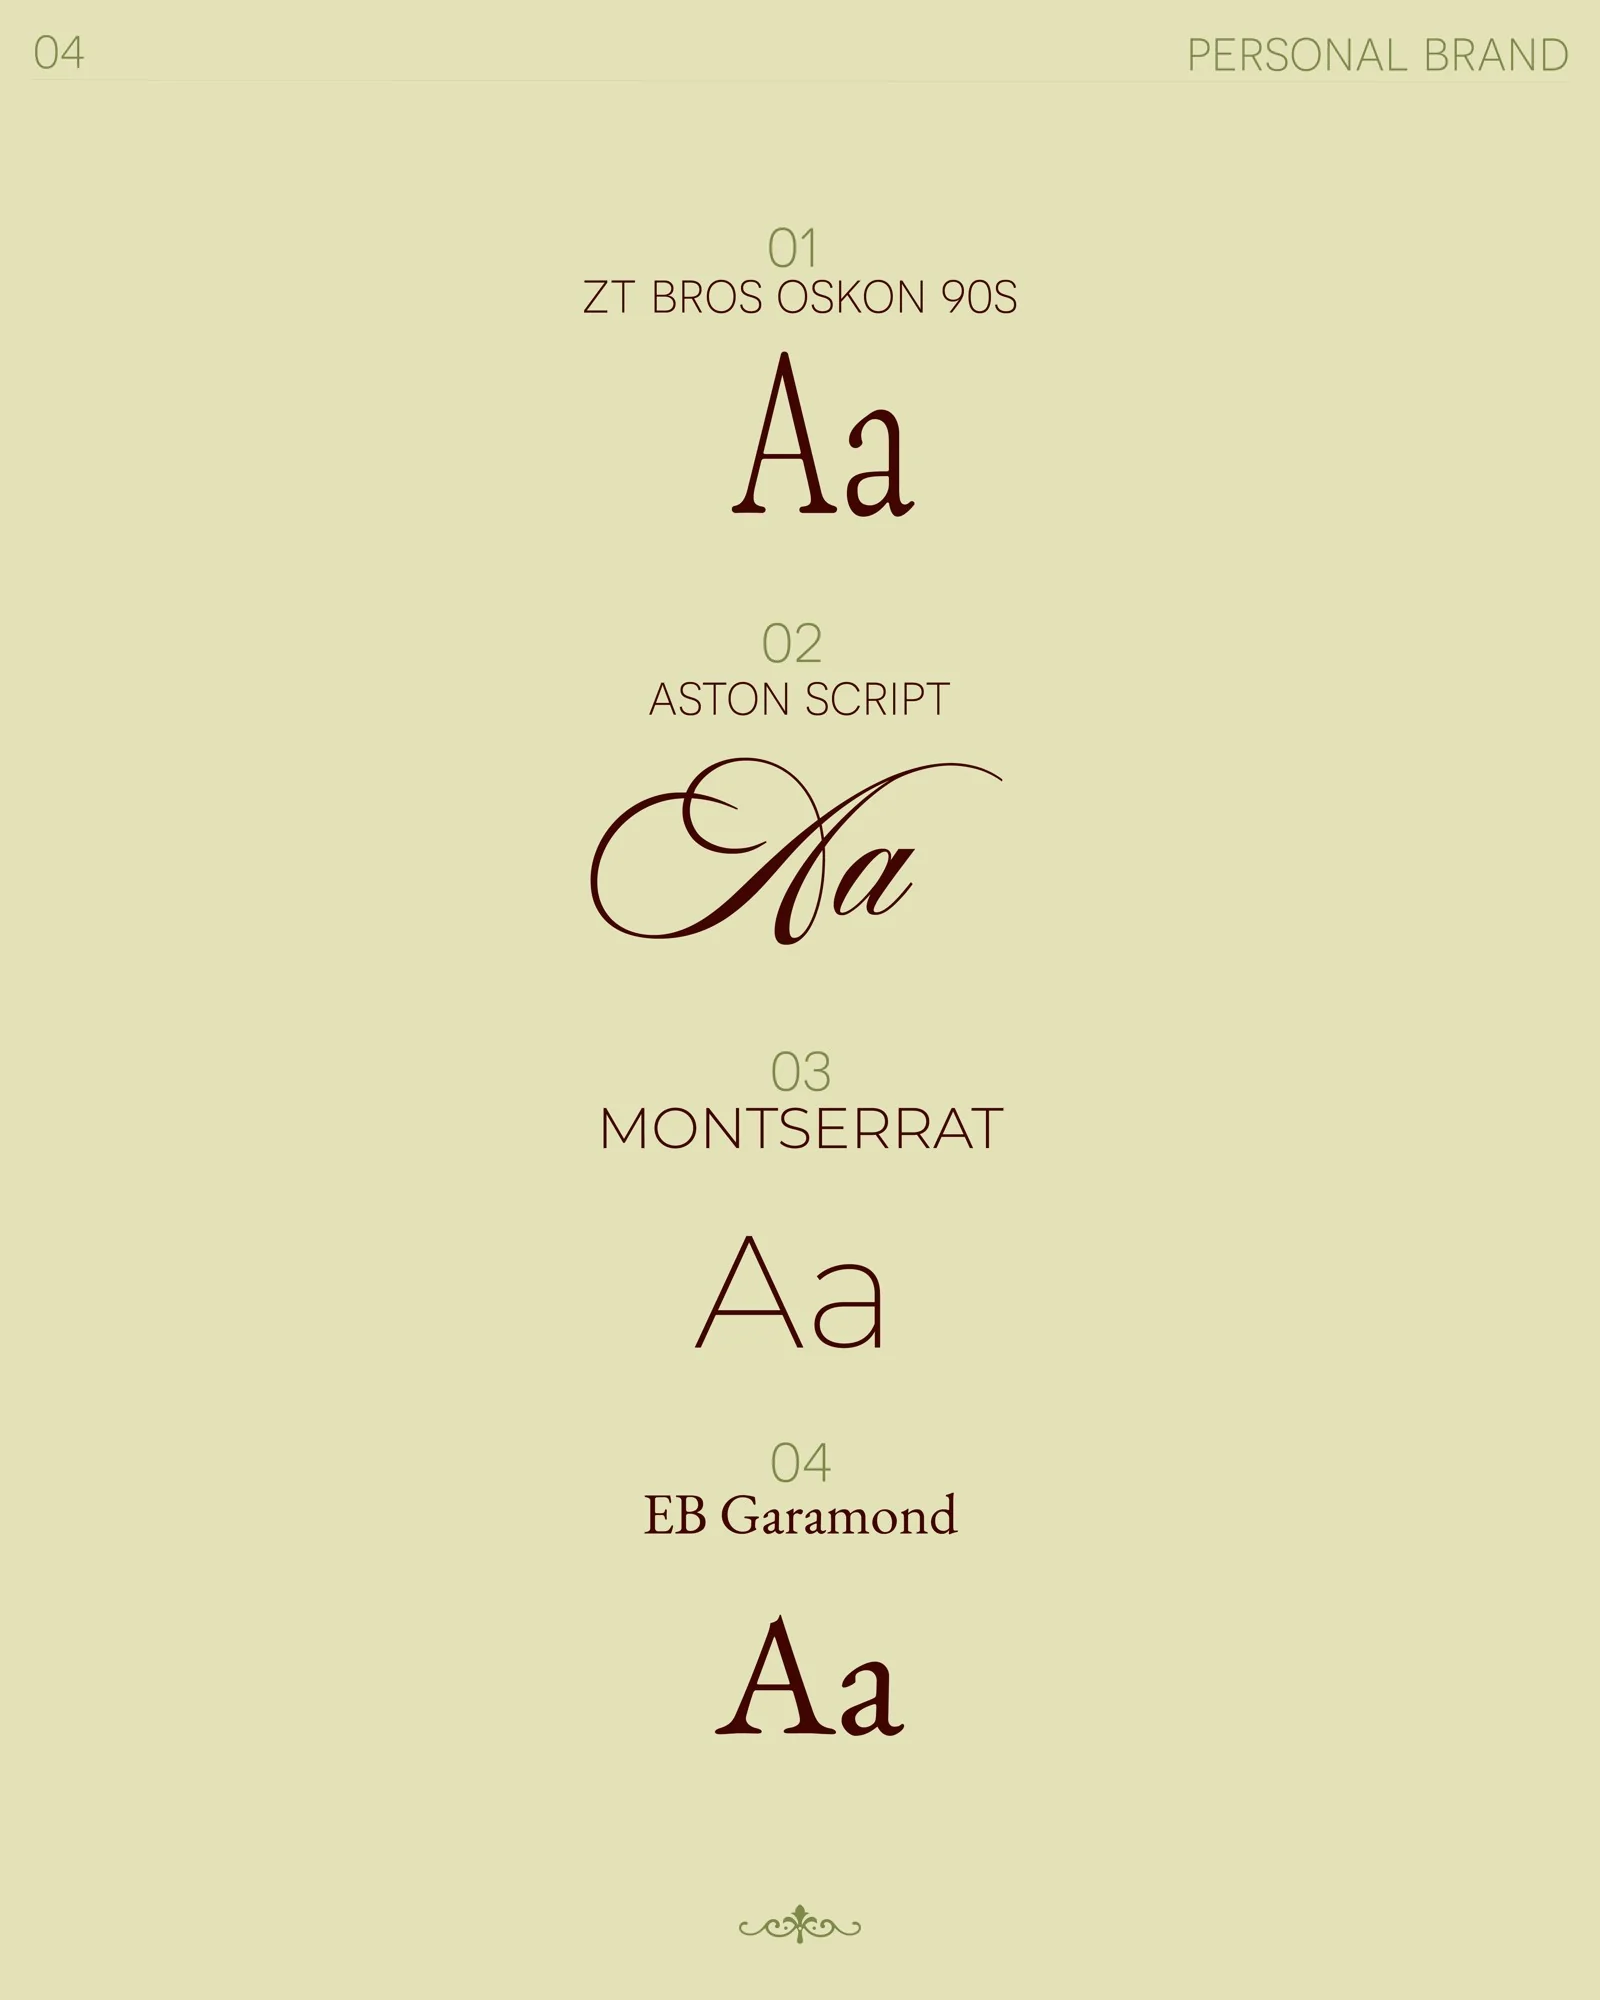
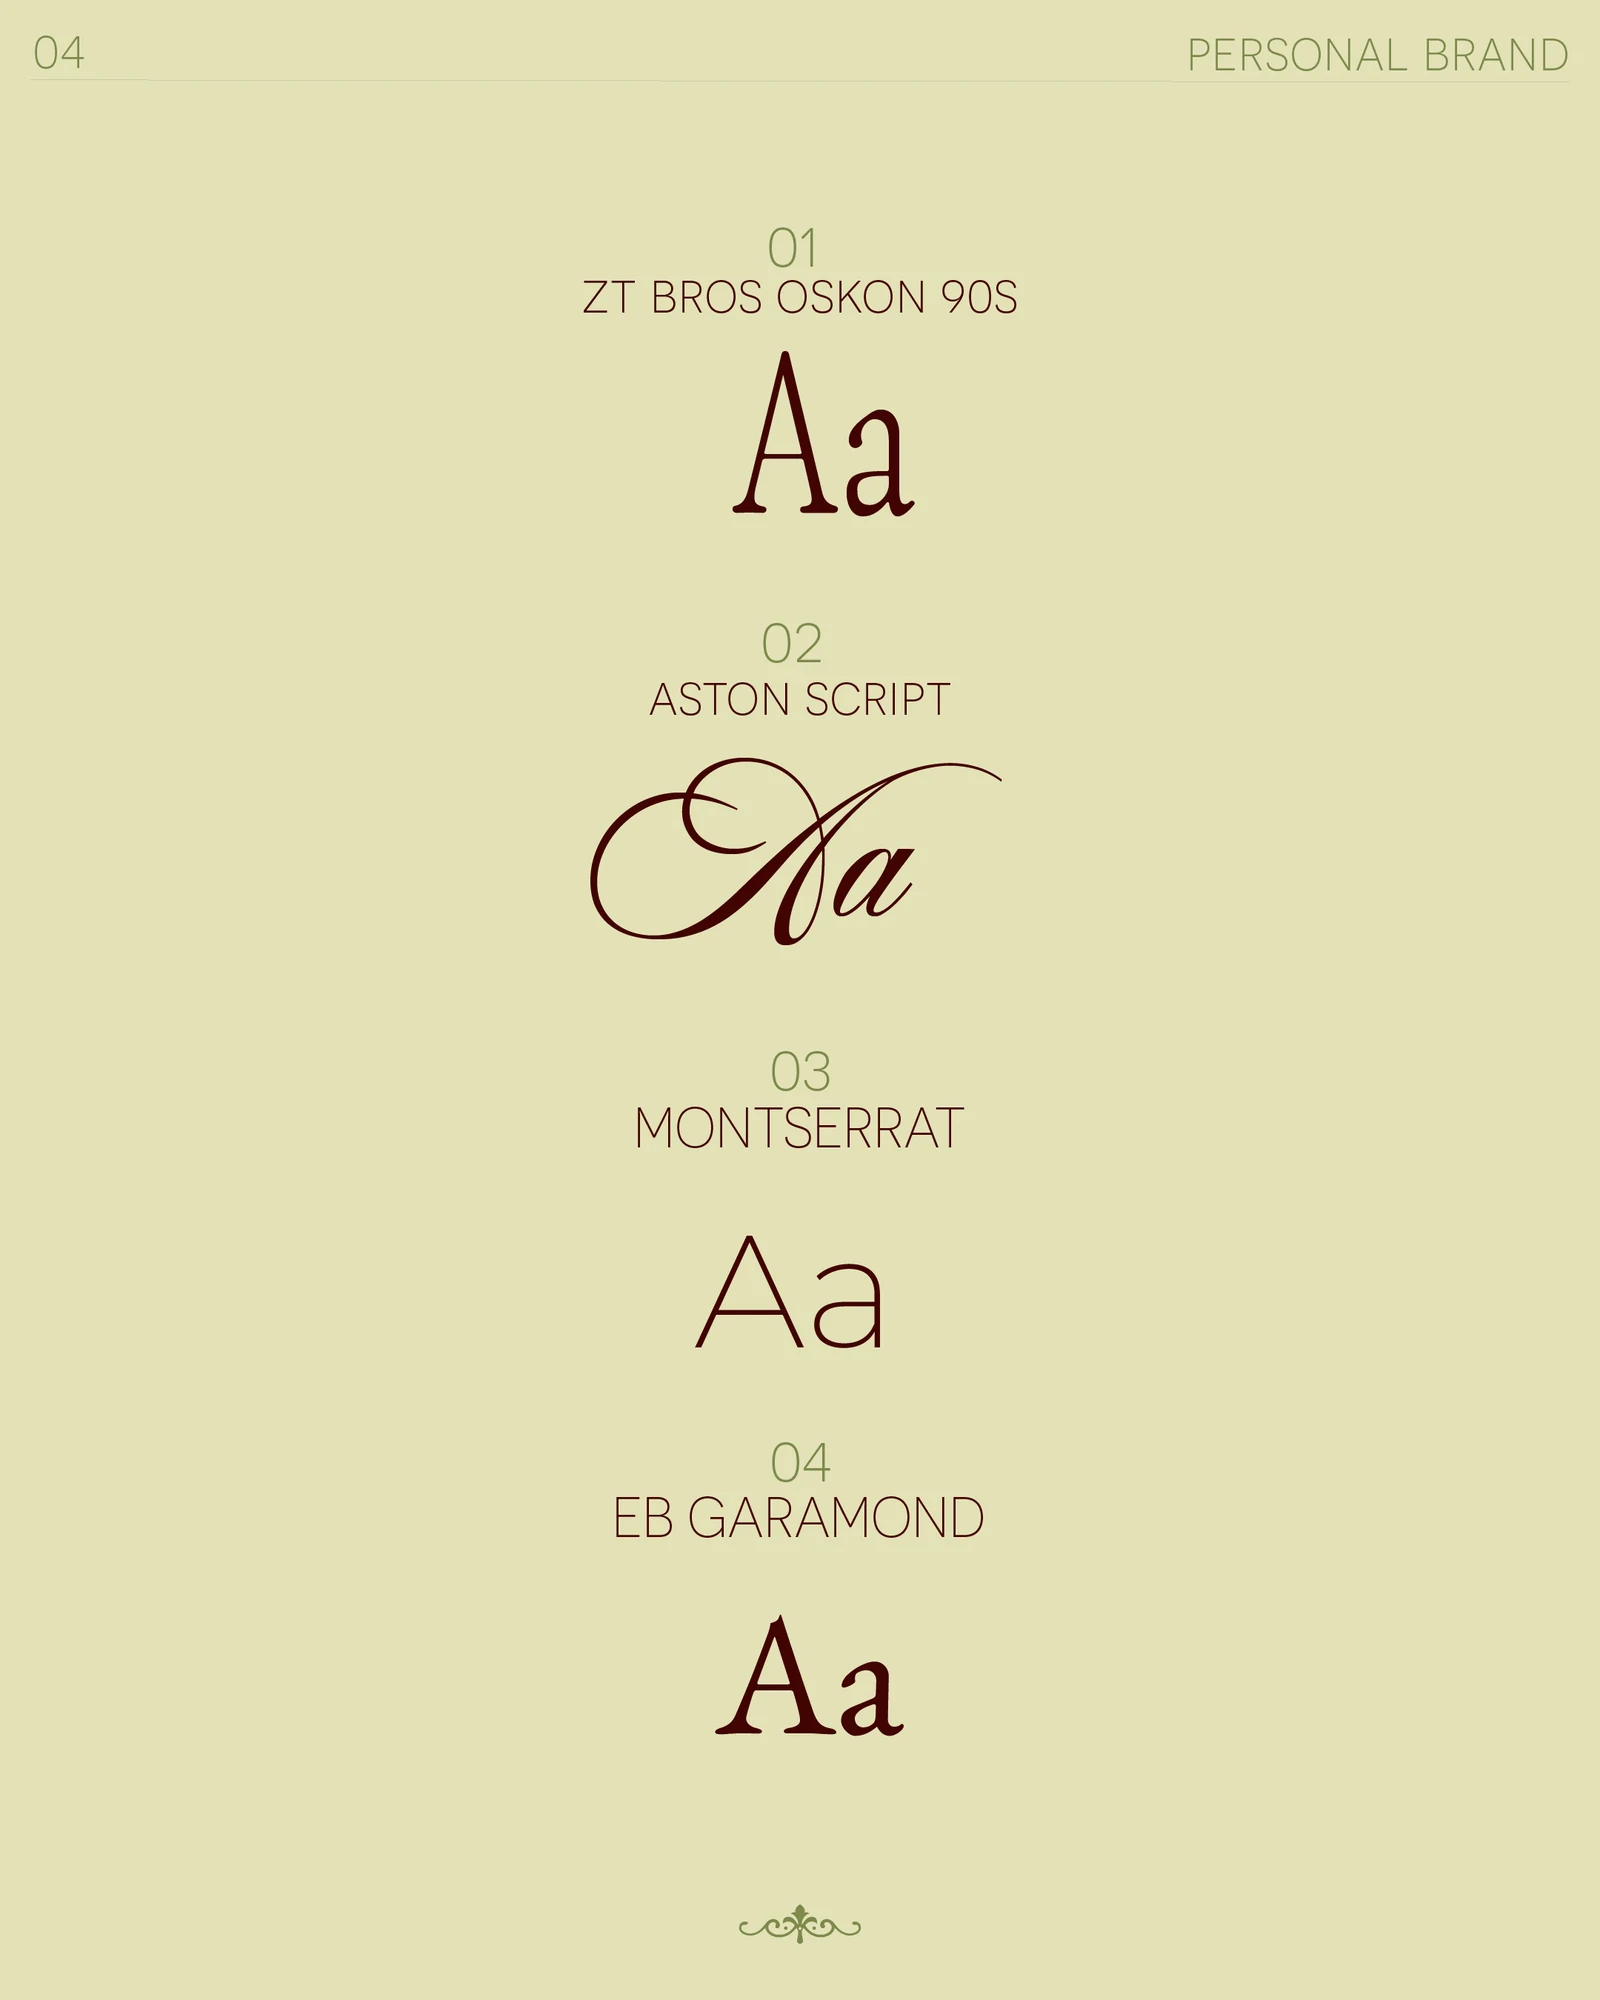
update

diff --git a/work/personal-brand.html b/work/personal-brand.html
@@ -29,9 +29,9 @@
     <section class="pj__row pj__row--pair pj__row--text"><div class="pj__intro"><div class="pj__lead"><p>For my degree thesis, I explored personal branding for artists: why it matters, and how a cohesive visual world can communicate an artist’s identity across every touchpoint. I then applied that research to my own practice, developing a personal brand for myself as an aspiring illustrator and designer.</p><p>I began by researching how independent illustrators build and engage an audience. From there, I defined my own position, identified the audience I wanted to reach, and considered how I could present myself online in a way that felt authentic to my practice. These insights shaped the visual identity, content strategy, and this website, creating a cohesive brand designed to work across every touchpoint.</p></div><div class="pj__meta"><div class="pj__meta-col pj__meta-col--name"><p>byluciatapia</p><p>2026 · Thesis</p></div><div class="pj__meta-col"><p class="pj__meta-k">Role</p><p class="pj__meta-v">Brand strategy<br>Art direction &amp; design</p></div><div class="pj__meta-col"><p class="pj__meta-k">Deliverables</p><p class="pj__meta-v">Visual identity<br>Content strategy<br>Website</p></div></div></div><figure class="pj__frame pj__frame--cover cut " data-cut data-interval="1500" style="aspect-ratio:4/5"><img class="cut__slide is-on" src="../assets/img/work/personal-brand/id-flower-1.webp?v=10051010" alt="" width="1600" height="2000" loading="lazy"><img class="cut__slide" src="../assets/img/work/personal-brand/id-flower-2.webp?v=10051010" alt="" width="1600" height="2000" loading="lazy"><img class="cut__slide" src="../assets/img/work/personal-brand/id-flower-3.webp?v=10051010" alt="" width="1600" height="2000" loading="lazy"><img class="cut__slide" src="../assets/img/work/personal-brand/id-flower-4.webp?v=10051010" alt="" width="1600" height="2000" loading="lazy"></figure></section>
     <section class="pj__row pj__single"><figure class="pj__frame pj__frame--contain pj__frame--mood" style="--bg:transparent;--pad:0;aspect-ratio:1700/1236"><img src="../assets/img/work/personal-brand/moodboard-cut.webp?v=10051010" alt="" width="1700" height="1236" loading="lazy"></figure></section>
     <section class="pj__row pj__center"><p>The moodboard was built with references leaning towards editorial typefaces and layouts, handmade and tactile details, everyday photos and, of course, illustration.</p></section>
-    <section class="pj__row pj__row--pair"><figure class="pj__frame pj__frame--cover " style="aspect-ratio:4/5"><img src="../assets/img/work/personal-brand/id-logos.webp?v=10051010" alt="" width="1600" height="2000" loading="lazy"></figure><figure class="pj__frame pj__frame--cover cut " data-cut data-interval="1800" style="aspect-ratio:4/5"><img class="cut__slide is-on" src="../assets/img/work/personal-brand/id-mark.webp?v=10051010" alt="" width="1600" height="2000" loading="lazy"><img class="cut__slide" src="../assets/img/work/personal-brand/id-pattern.webp?v=10051010" alt="" width="1600" height="2000" loading="lazy"></figure></section>
+    <section class="pj__row pj__row--pair"><figure class="pj__frame pj__frame--cover " style="aspect-ratio:4/5"><img src="../assets/img/work/personal-brand/id-logos-v3.webp?v=1109d" alt="" width="1600" height="2000" loading="lazy"></figure><figure class="pj__frame pj__frame--cover cut " data-cut data-interval="1800" style="aspect-ratio:4/5"><img class="cut__slide is-on" src="../assets/img/work/personal-brand/id-mark-v3.webp?v=1109d" alt="" width="1600" height="2000" loading="lazy"><img class="cut__slide" src="../assets/img/work/personal-brand/id-pattern-v3.webp?v=1109d" alt="" width="1600" height="2000" loading="lazy"></figure></section>
     <section class="pj__row pj__row--pair pj__row--lotta"><figure class="pj__frame pj__frame--cover " style="aspect-ratio:4/5"><img src="../assets/img/work/personal-brand/id-palette.webp?v=10051010" alt="" width="1600" height="2000" loading="lazy"></figure><div class="pj__side-txt pj__side-txt--split"><div><p>A romantic, hand-drawn identity with elegant flourishes. A full logo system with alternative versions ready for packaging and future applications.</p><p>The dragonfly also works on its own as the main logo symbol, and together with small hand-drawn ornaments it becomes a pattern for posts, possible packaging and the website.</p></div><div><p>Burgundy and olive are the main colors, with dark brown and cream as a base. Dusty rose, light olive and butter yellow are for small details, so the palette feels rich but grounded.</p></div></div></section>
-    <section class="pj__row pj__row--pair pj__row--lotta"><div class="pj__side-txt"><p>A mix of serif and sans serif to create a clear hierarchy: ZT Bros Oskon for titles, Aston Script for accents, EB Garamond for body text and Montserrat for small details.</p></div><figure class="pj__frame pj__frame--cover " style="aspect-ratio:4/5"><img src="../assets/img/work/personal-brand/id-type.webp?v=10051010" alt="" width="1600" height="2000" loading="lazy"></figure></section>
+    <section class="pj__row pj__row--pair pj__row--lotta"><div class="pj__side-txt"><p>A mix of serif and sans serif to create a clear hierarchy: ZT Bros Oskon for titles, Aston Script for accents, EB Garamond for body text and Montserrat for small details.</p></div><figure class="pj__frame pj__frame--cover " style="aspect-ratio:4/5"><img src="../assets/img/work/personal-brand/id-type-v3.webp?v=1109d" alt="" width="1600" height="2000" loading="lazy"></figure></section>
     <section class="pj__row pj__fc"><div class="pj__fc-txt"><p>The social media strategy focuses on documenting the creative world behind the brand, and the content is organized around four pillars: process or bts, finished work, inspiration, and everyday life. Together, they create variety while maintaining a cohesive system and more consistent visual identity across the feed.</p></div><figure class="pj__frame pj__frame--contain " style="--bg:transparent;--pad:0;aspect-ratio:1936/1940" data-zoom><img src="../assets/img/work/personal-brand/feed.webp?v=10051010" alt="" width="1936" height="1940" loading="lazy" data-full="../assets/img/work/personal-brand/feed-full.webp?v=10051010"></figure><p class="pj__link pj__fc-link"><a href="https://www.instagram.com/by.luciatapia/" target="_blank" rel="noopener">Visit @by.luciatapia ↗</a></p></section>
     </div>
     <section class="pj__end"><a class="pj__next" href="plum-panda.html"><span class="pj__next-k">Next project</span><span class="pj__next-v">Plum Panda →</span></a><div class="pj__more"><a class="pj__more-card" href="plum-panda.html"><figure><img src="../assets/img/work/plum-panda.webp" alt="" loading="lazy"></figure><p>Plum Panda</p></a><a class="pj__more-card" href="ai-image-generation.html"><figure><img src="../assets/img/work/ai-image-generation.webp" alt="" loading="lazy"></figure><p>AI Image Generation</p></a><a class="pj__more-card" href="givenchy.html"><figure><img src="../assets/img/work/givenchy.webp" alt="" loading="lazy"></figure><p>Givenchy Archives</p></a><a class="pj__more-card" href="el-herrete.html"><figure><img src="../assets/img/work/el-herrete.webp" alt="" loading="lazy"></figure><p>El Herrete</p></a></div><a class="pj__back" href="../work.html">← All work</a></section>

diff --git a/index.html b/index.html
@@ -37,7 +37,7 @@
         <a href="contact.html" data-i18n="nav.contact">Contact</a>
       </nav>
       <h1 class="hero__logo">
-        <img src="assets/img/logo-hero-cream.svg" alt="Lucía Tapia" width="766" height="476" data-logo>
+        <img src="assets/img/logo-hero-wordmark-v2.png" alt="Lucía Tapia" width="1076" height="524" data-logo>
       </h1>
       <a class="hero__scroll" href="#intro"><span aria-hidden="true">↓</span> <span data-i18n="hero.scroll">scroll</span></a>
     </section>
